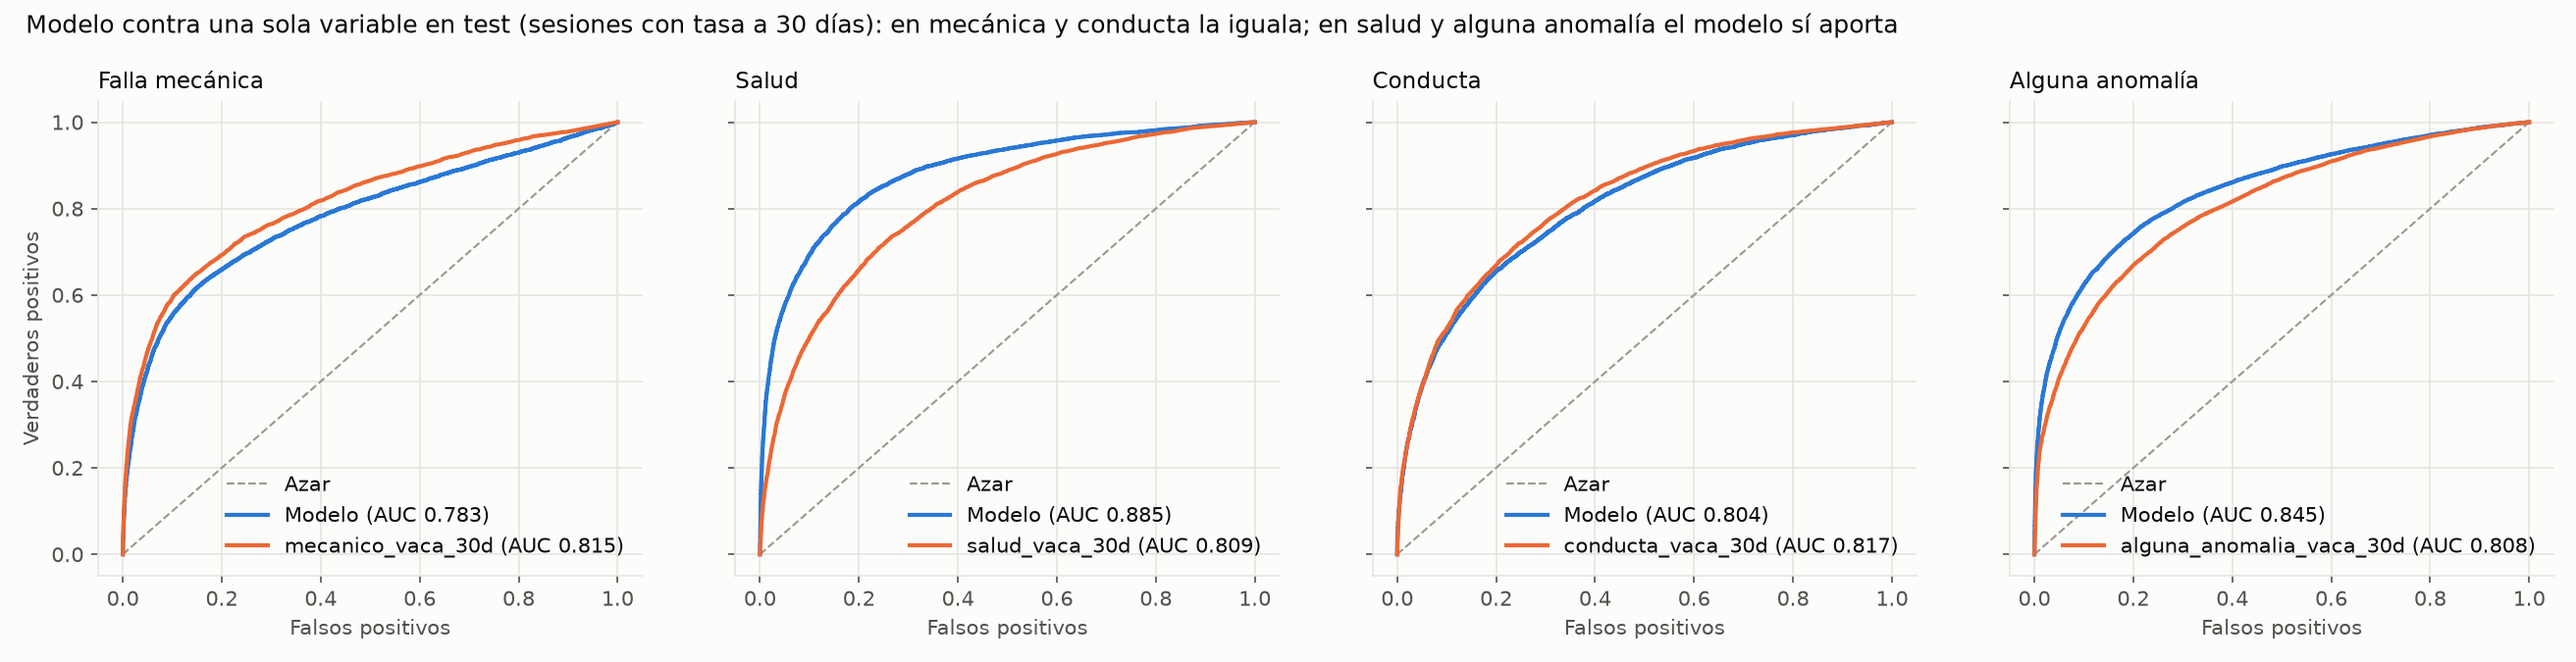
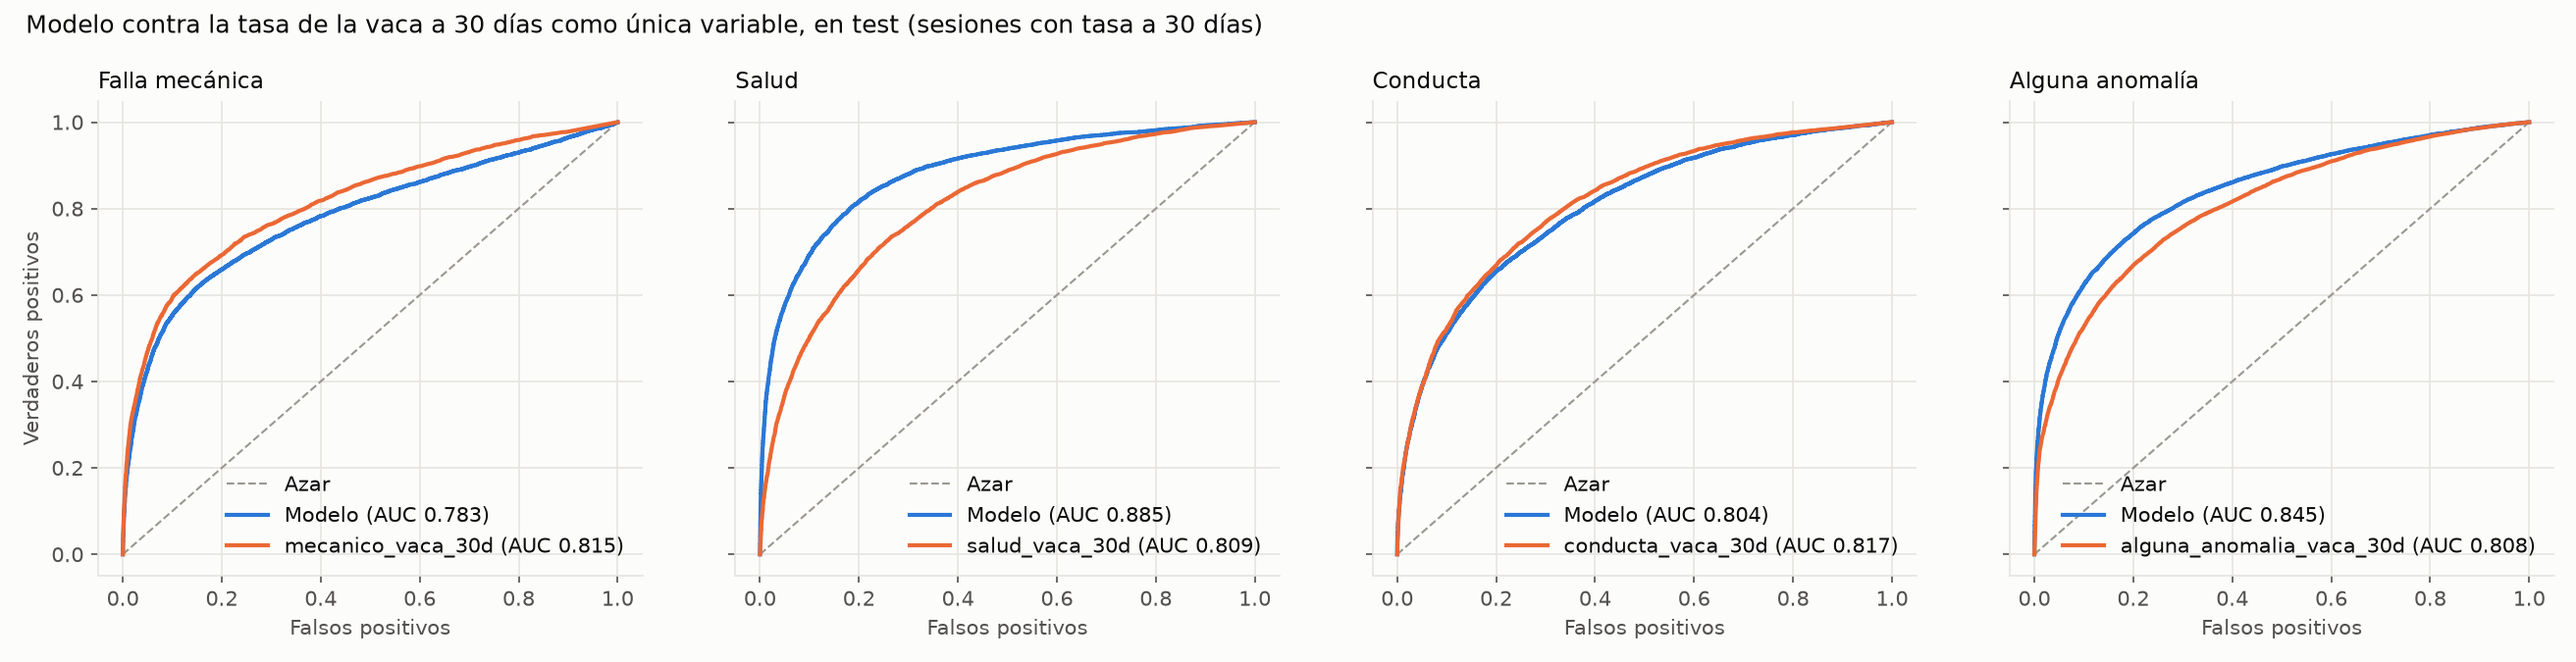
fix: deja neutro el título de la gráfica de modelo contra una variable

Changed region(s): [[0.0625, 0.0, 0.7497, 0.0622]]

diff --git a/src/MODELING/XGBoost/plots.py b/src/MODELING/XGBoost/plots.py
@@ -184,9 +184,8 @@ def model_vs_feature(rates, y, probabilities):
         ax.set_xlabel("Falsos positivos")
         ax.legend(loc="lower right")
     axes[0].set_ylabel("Verdaderos positivos")
-    fig.suptitle("Modelo contra una sola variable en test (sesiones con tasa a 30 días): "
-                 "en mecánica y conducta la iguala; en salud y alguna anomalía el modelo sí aporta",
-                 x=0.01, ha="left", fontsize=12)
+    fig.suptitle("Modelo contra la tasa de la vaca a 30 días como única variable, en test "
+                 "(sesiones con tasa a 30 días)", x=0.01, ha="left", fontsize=12)
     return fig
 
 
